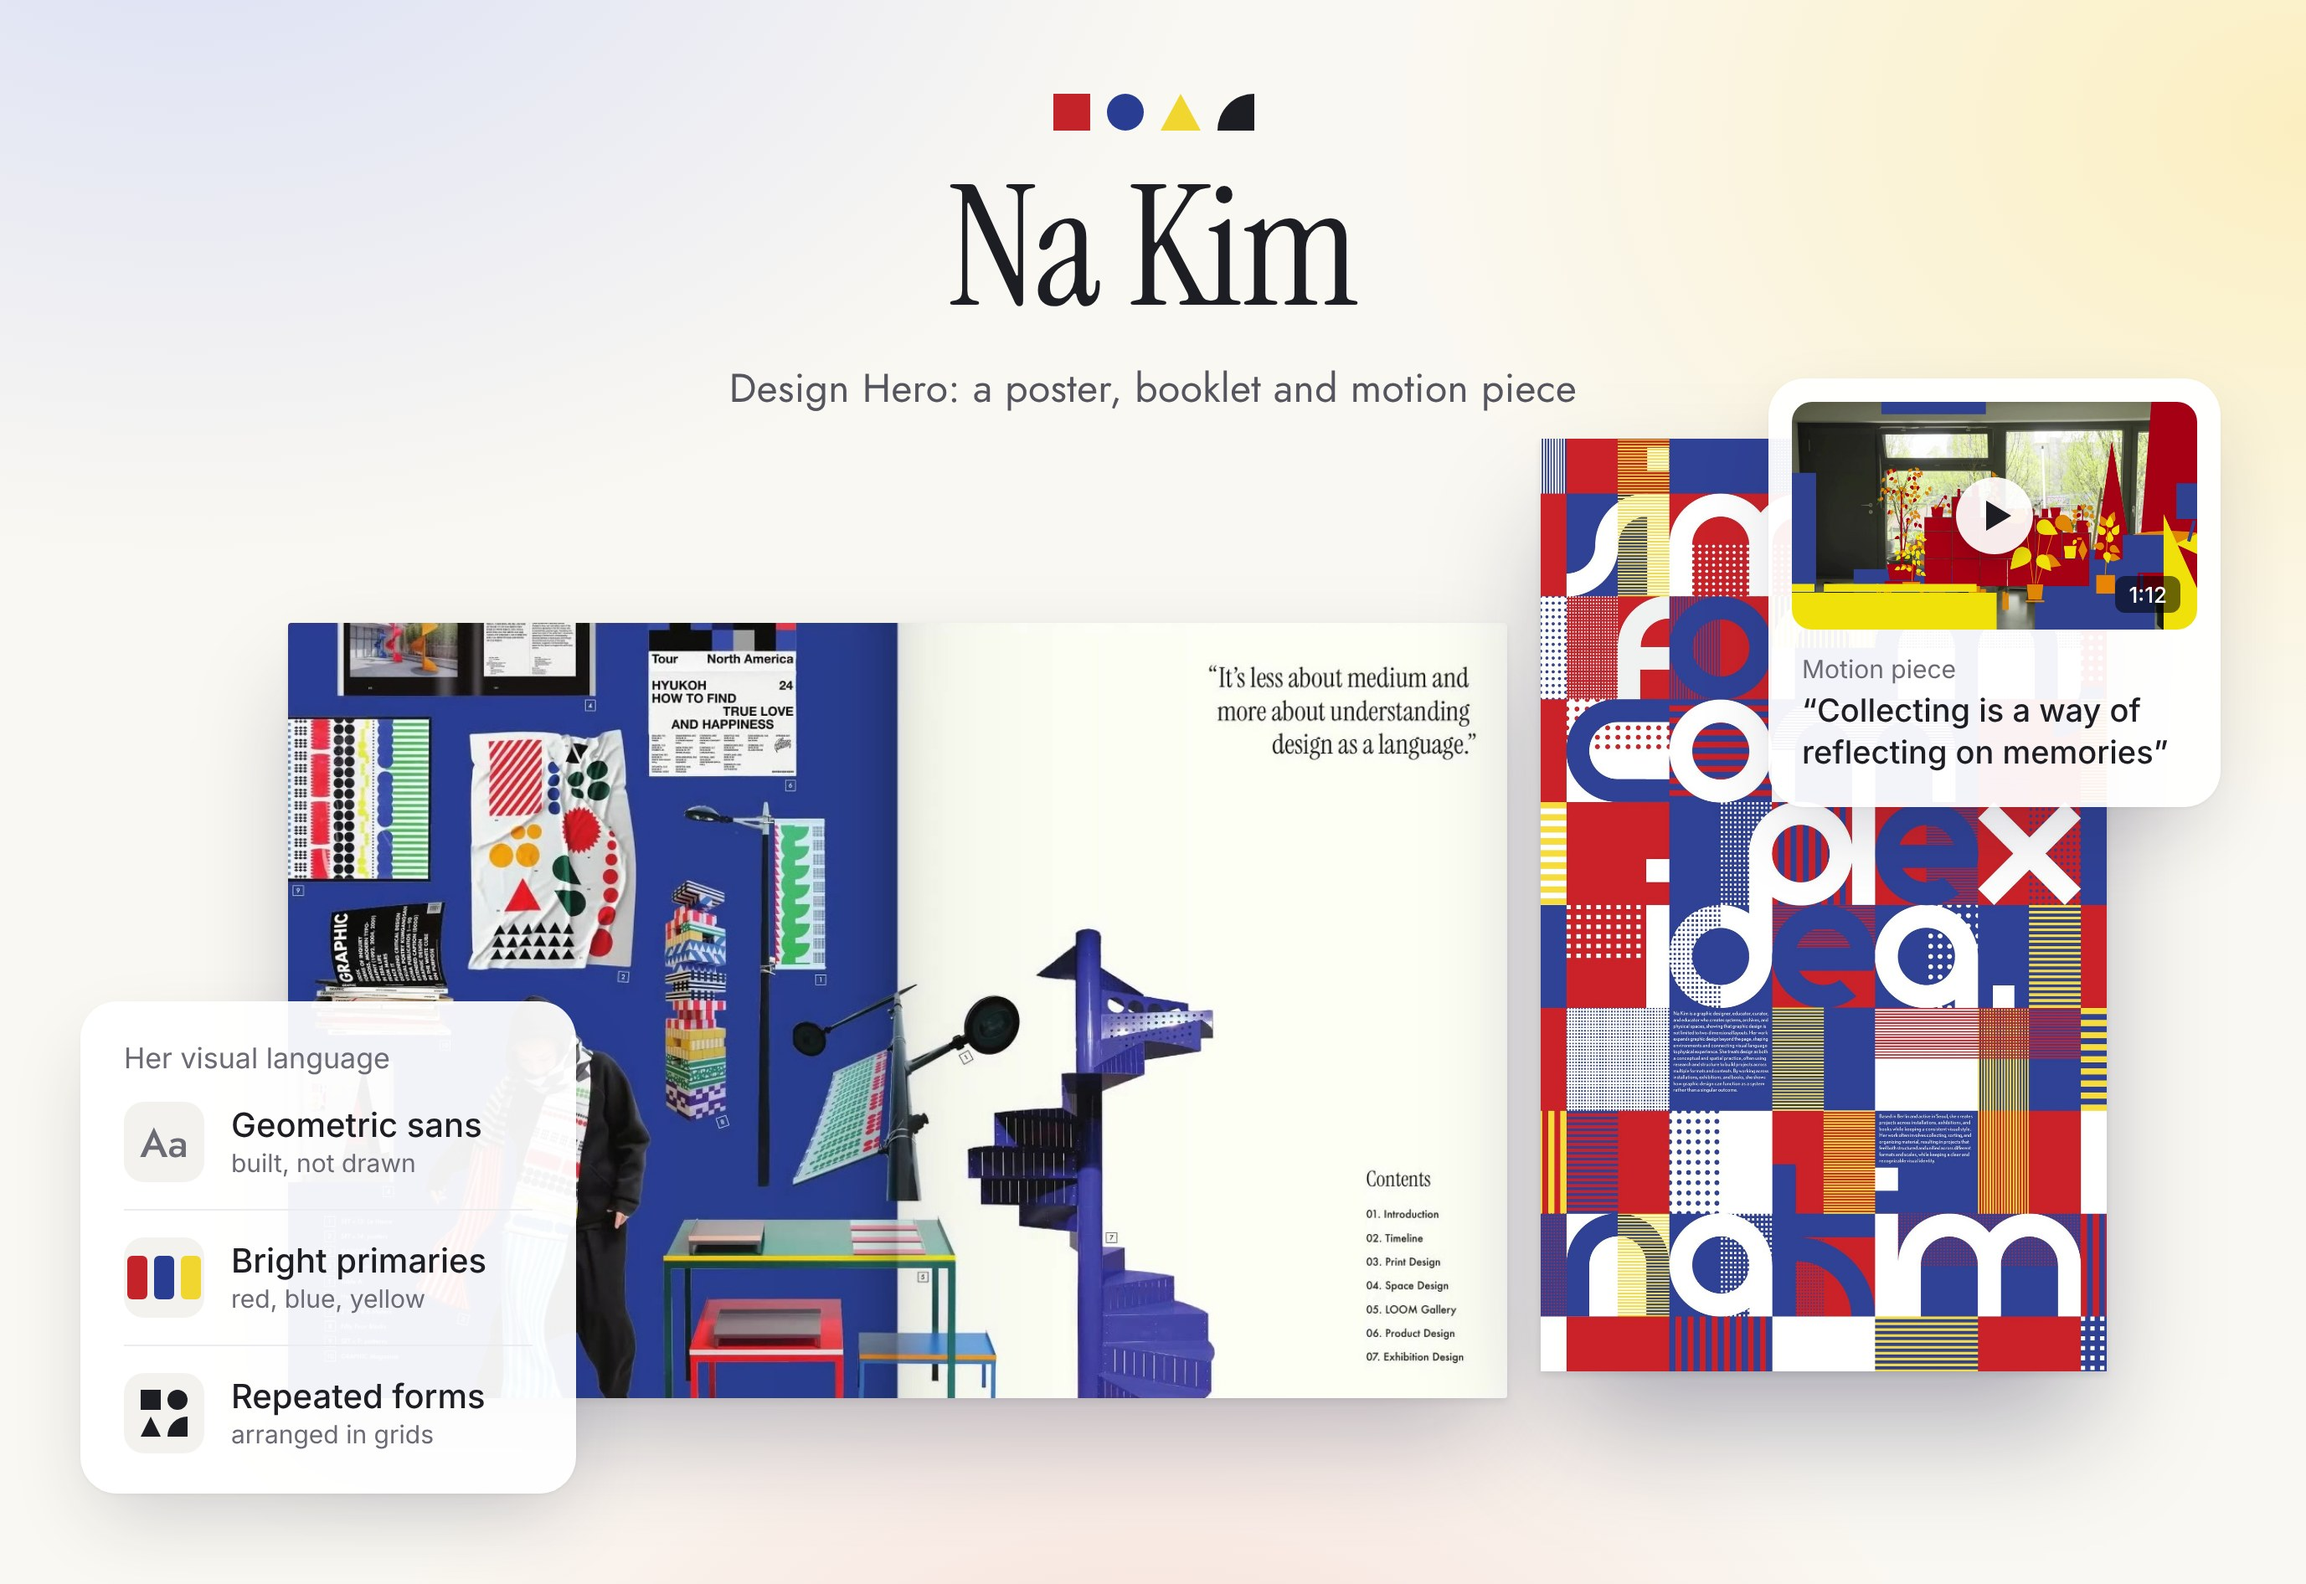
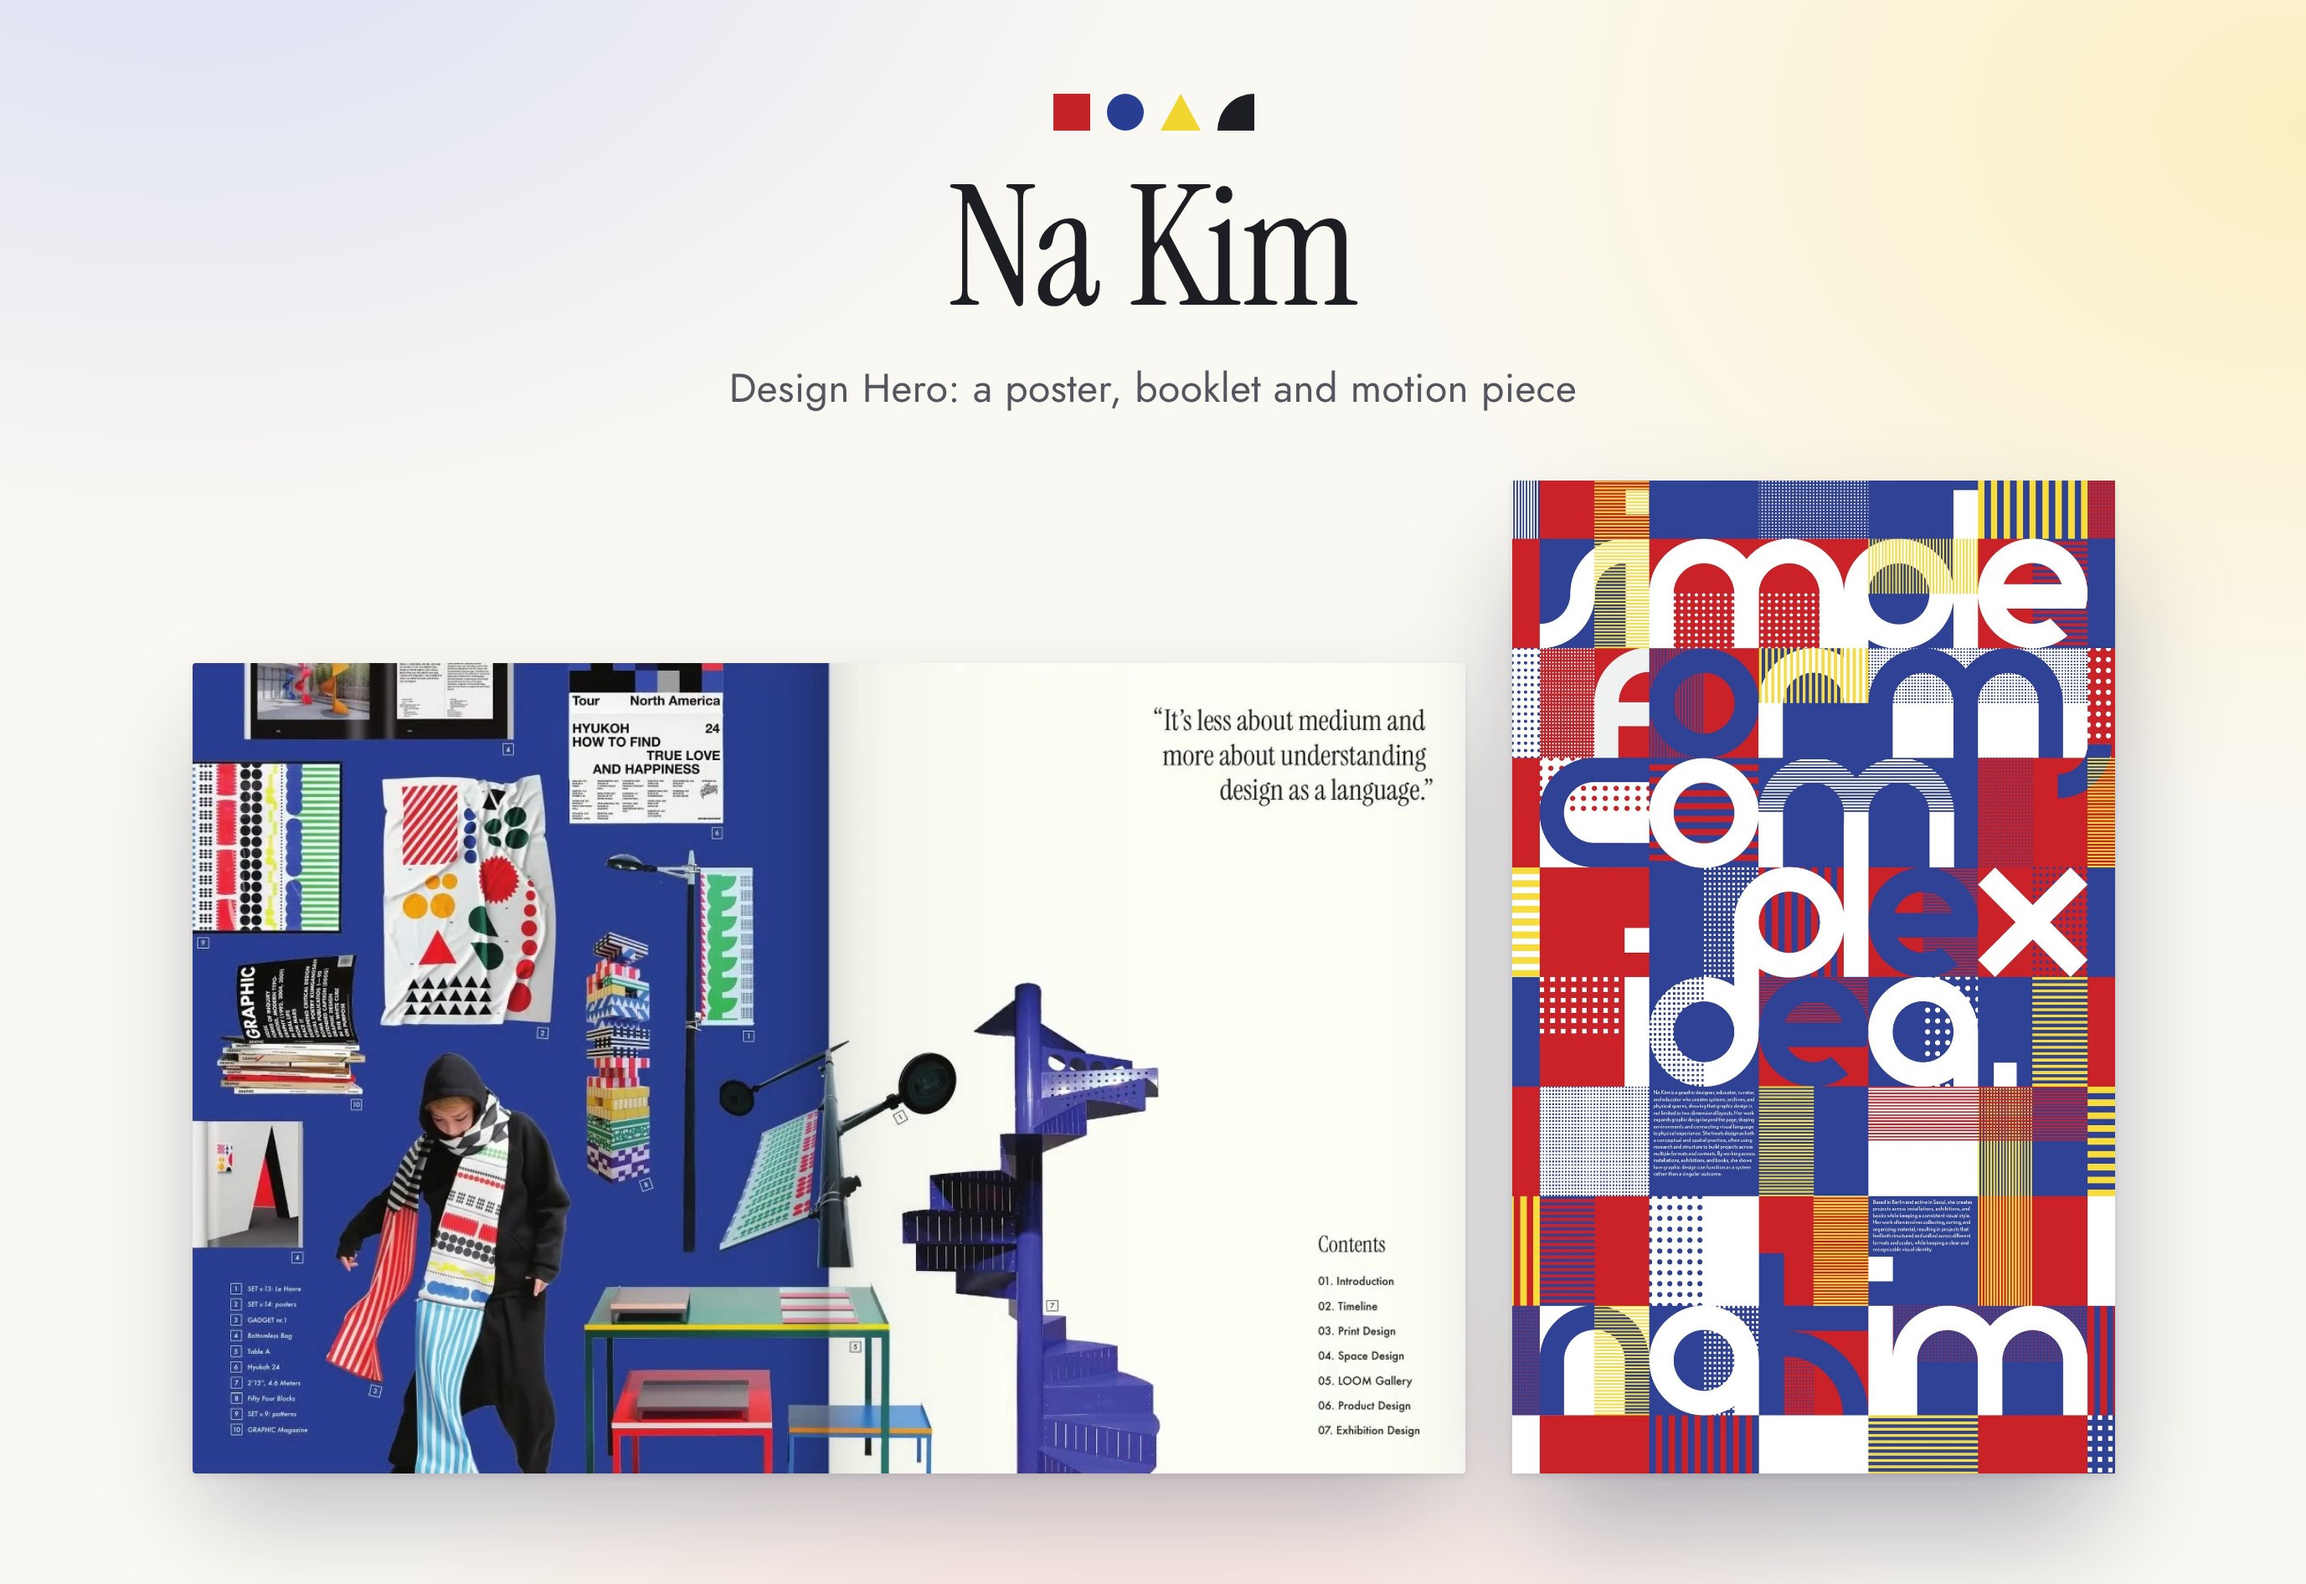
Home: drop the floating cards from the Na Kim cover (#13)
Claude-Session: https://claude.ai/code/session_01PJkMovUQDzXZvR5dQrcE8E

diff --git a/index.html b/index.html
@@ -70,8 +70,8 @@
 
       <a class="project" href="design-hero-site/index.html">
         <div class="project__media project__media--hero">
-          <img src="design-hero-site/images/cover.jpg?v=2" width="1377" height="946"
-            alt="Na Kim cover: the booklet's contents spread beside the 'simple form, complex idea' poster, with a card on her visual language (geometric sans, bright primaries, repeated forms) and a still from the 1:12 motion piece">
+          <img src="design-hero-site/images/cover.jpg?v=3" width="1377" height="946"
+            alt="Na Kim cover: the booklet's contents spread beside the 'simple form, complex idea' poster">
           <video class="project__hover" data-src="design-hero-site/images/hover.mp4?v=1" muted playsinline loop preload="none" aria-hidden="true"></video>
         </div>
         <h2 class="project__title">Design Hero</h2>
